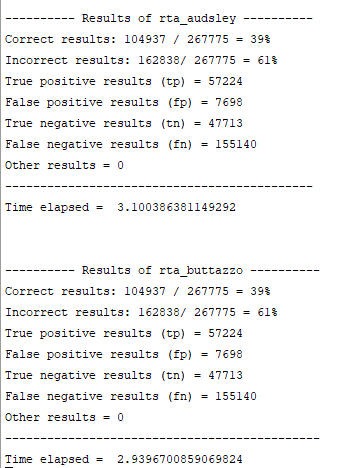
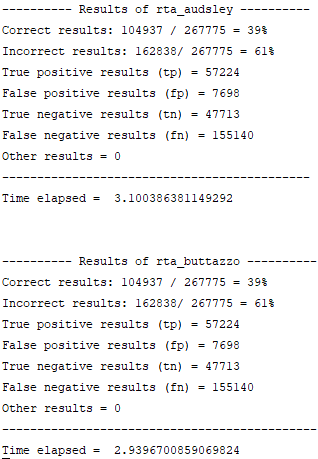
Added new version of database and refractored code

Changed region(s): [[0.0, 0.0, 0.934, 1.0]]

diff --git a/main.py b/main.py
@@ -36,10 +36,10 @@ def print_results(test_name, tp, fp, tn, fn, other):
     print("Correct results: {0:d} / {1:d} = {2:.0f}%".format(correct, sum, correct * 100 / sum))
     print(
         "Incorrect results: {0:d}/ {1:d} = {2:.0f}%".format(incorrect, sum, incorrect * 100 / sum))
-    print("True positive results (tp) = {0:d}".format(tp))
-    print("False positive results (fp) = {0:d}".format(fp))
-    print("True negative results (tn) = {0:d}".format(tn))
-    print("False negative results (fn) = {0:d}".format(fn))
+    print("True positive results (tp) = {0:d} = {1:.0f}%".format(tp, tp*100/sum))
+    print("False positive results (fp) = {0:d} = {1:.0f}%".format(fp, fp*100/sum))
+    print("True negative results (tn) = {0:d} = {1:.0f}%".format(tn, tn*100/sum))
+    print("False negative results (fn) = {0:d} = {1:.0f}%".format(fn, fn*100/sum))
     print("Other results = {0:d}".format(other))
     print("-" * len(s))
 

diff --git a/new_database.py b/new_database.py
@@ -10,7 +10,7 @@ from Taskset import Taskset  # for creating task-sets
 # attributes of the database
 db_dir = os.path.dirname(
     os.path.abspath(__file__))  # path to the database = current working directory
-db_name = "panda_v1.db"  # name of the database
+db_name = "panda_v2.db"  # name of the database
 
 _db_connection = None  # connection to the database
 _db_cursor = None  # cursor for working with the database

diff --git a/testing.py b/testing.py
@@ -1,2 +1,9 @@
-import simsogui
-simsogui.run_gui()
+# import simsogui
+# simsogui.run_gui()
+
+gesamt = 706519
+tp = 139770
+fp = 21338
+tn = 128671
+fn = 416740
+print(" tp = {} \n fp = {} \n tn = {} \n fn = {}".format(tp*100/gesamt, fp*100/gesamt, tn*100/gesamt, fn*100/gesamt))
